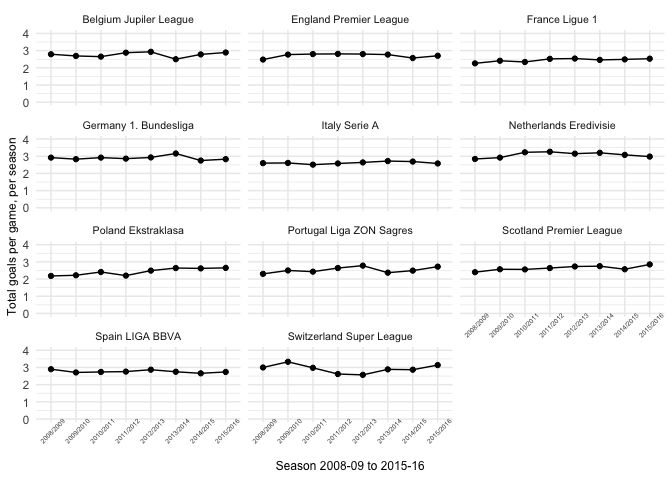
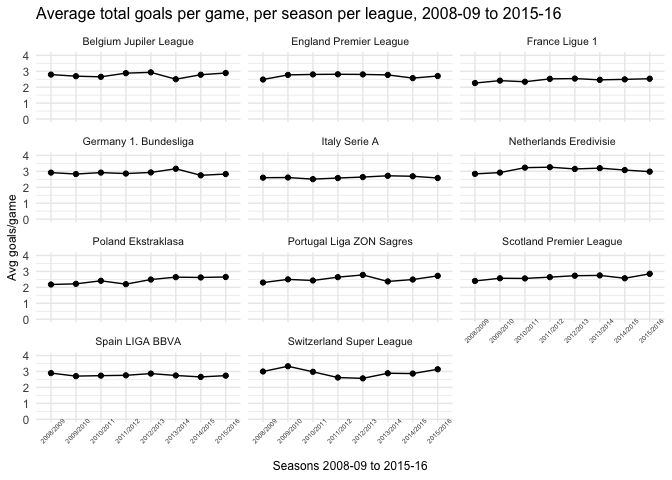
new chart

diff --git a/Euro_soccer_database_analysis.md b/Euro_soccer_database_analysis.md
@@ -202,6 +202,7 @@ glimpse(goalspoints)
 How about some charts & graphs?
 
 ``` r
+# First, average total goals per game by season, in each league.
 goalspoints %>%
   select(league, season, gpgs_total) %>%
   distinct(league, season, .keep_all = TRUE) %>%
@@ -209,12 +210,14 @@ goalspoints %>%
   geom_line(group = 1) +
   geom_point() +
   ylim(0, 4) +
-  labs(x = "Season 2008-09 to 2015-16", y = "Total goals per game, per season") +
+  labs(title = "Average total goals per game, per season per league, 2008-09 to 2015-16",
+    x = "Seasons 2008-09 to 2015-16", y = "Avg goals/game") +
   facet_wrap(~ league,  nrow = 4, ncol = 3) +
   theme_minimal() +
-  theme(axis.title.x = element_text(size = 9), axis.title.y = element_text(size = 9),
-        strip.text = element_text(size = 8),
-        axis.text.x = element_text(size = 5, angle = 45))
+  theme(title = element_text(size = 10),
+        axis.title.x = element_text(size = 9), axis.title.y = element_text(size = 9),
+        axis.text.x = element_text(size = 5, angle = 45),
+        strip.text = element_text(size = 8))
 ```
 
 ![](Euro_soccer_database_analysis_files/figure-gfm/charts%20&%20graphs-1.png)<!-- -->
